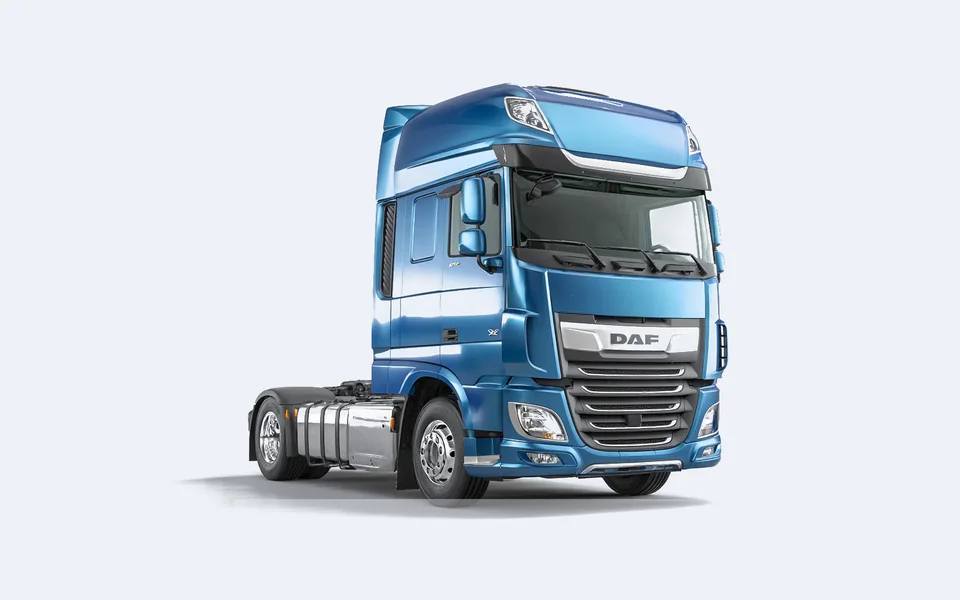
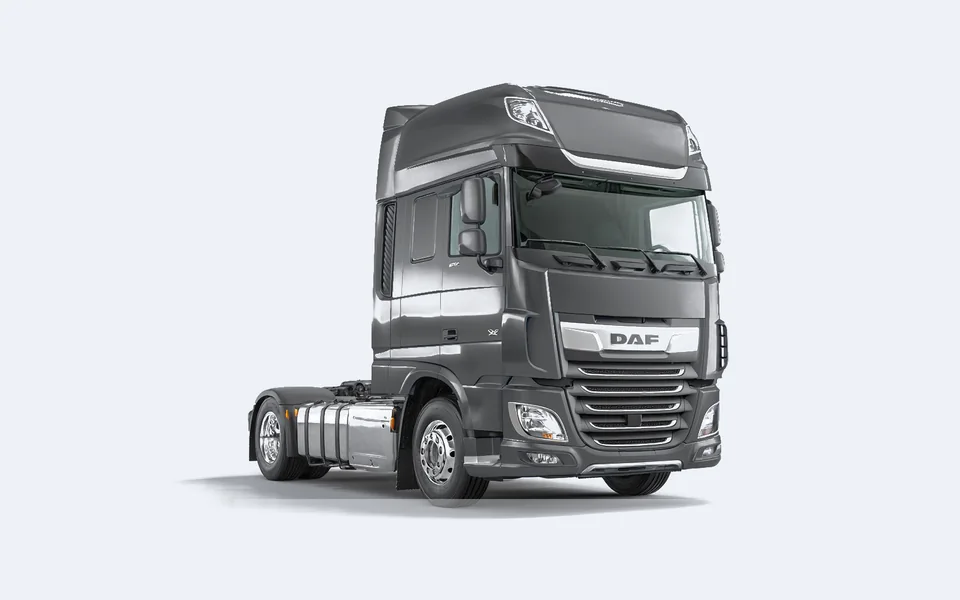
Vehicle photos: graphite tractors, white vans
Owner's colour scheme by vehicle class: tractors graphite, vans white (tippers and rigid trucks to follow). Tractor photos recoloured on the vehicle only, same framing and plate spots; van photos for Ford Transit, Citroën Jumper, Fiat Ducato, VW Crafter and Mercedes Sprinter in the same studio style with plate positions on the bumper.

Changed region(s): [[0.375, 0.12, 0.7812, 0.81]]

diff --git a/src/lib/fleet/truckPhoto.ts b/src/lib/fleet/truckPhoto.ts
@@ -1,10 +1,15 @@
 /**
- * Фото тягача по марке (21.11.2026): Volvo, Scania, MAN, Mercedes-Benz,
- * DAF, Iveco, Renault. Снимки приведены к одному виду (фон --color-ground,
- * кабина вправо, один масштаб, 960 × 600) и лежат в public/media/trucks.
+ * Фото машины по марке (21.11.2026). Тягачи — Volvo, Scania, MAN,
+ * Mercedes-Benz, DAF, Iveco, Renault (public/media/trucks); фургоны — Ford,
+ * Citroën, Fiat, Volkswagen, Mercedes-Benz (public/media/vans). Снимки
+ * приведены к одному виду: фон --color-ground, мордой вправо, один масштаб,
+ * 960 × 600.
  *
- * Фото — только для тягачей: остальных классов на снимках нет, и тягач на
- * карточке фургона или самосвала вводил бы в заблуждение.
+ * Цвет по классу машины — решение владельца 21.11.2026: тягачи графитовые,
+ * фургоны белые; самосвалы (светлая кабина, тёмно-серый кузов) и грузовики
+ * (голубая кабина, белый кузов) — когда будут снимки. Класс без снимков и
+ * марка не из списка — без фото: чужая машина на карточке вводила бы в
+ * заблуждение.
  *
  * plate — где на снимке номерной знак: центр, ширина (доли кадра) и наклон.
  * Без зависимостей: модуль читают компонент и тесты.
@@ -30,6 +35,31 @@ const PLATE: Record<TruckBrand, { x: number; y: number; w: number; skew: number 
   renault: { x: 665, y: 450, w: 40, skew: -1 },
 };
 
+export type VanBrand = 'ford' | 'citroen' | 'fiat' | 'vw' | 'mercedes';
+
+/* Номер на бампере фургона (кадр 960 × 600). */
+const VAN_PLATE: Record<VanBrand, { x: number; y: number; w: number; skew: number }> = {
+  ford: { x: 714, y: 433, w: 66, skew: -2 },
+  citroen: { x: 740, y: 425, w: 94, skew: -3 },
+  fiat: { x: 796, y: 402, w: 92, skew: -2 },
+  vw: { x: 742, y: 390, w: 86, skew: -3 },
+  mercedes: { x: 788, y: 430, w: 82, skew: -3 },
+};
+
+const VAN_PATTERNS: [VanBrand, RegExp][] = [
+  ['mercedes', /mercedes|benz|\bmb\b|sprinter|vito/i],
+  ['vw', /\bvw\b|volkswagen|crafter|transporter/i],
+  ['ford', /\bford\b|transit/i],
+  ['citroen', /citro[eë]n|jumper|relay/i],
+  ['fiat', /\bfiat\b|ducato/i],
+];
+
+export function vanBrand(make: string | null | undefined): VanBrand | null {
+  if (!make) return null;
+  for (const [brand, re] of VAN_PATTERNS) if (re.test(make)) return brand;
+  return null;
+}
+
 const PATTERNS: [TruckBrand, RegExp][] = [
   ['mercedes', /mercedes|benz|\bmb\b|actros|arocs|axor/i],
   ['scania', /scania/i],
@@ -48,6 +78,16 @@ export function truckBrand(make: string | null | undefined): TruckBrand | null {
 }
 
 export function truckPhoto(make: string | null | undefined, vehicleClass: string | null | undefined) {
+  if (vehicleClass === 'VAN') {
+    const van = vanBrand(make);
+    if (!van) return null;
+    const v = VAN_PLATE[van];
+    return {
+      brand: van,
+      src: `/media/vans/${van}.webp`,
+      plate: { x: v.x / TRUCK_PHOTO_SIZE.width, y: v.y / TRUCK_PHOTO_SIZE.height, w: v.w / TRUCK_PHOTO_SIZE.width, skew: v.skew },
+    };
+  }
   if (vehicleClass !== 'TRACTOR') return null;
   const brand = truckBrand(make);
   if (!brand) return null;
